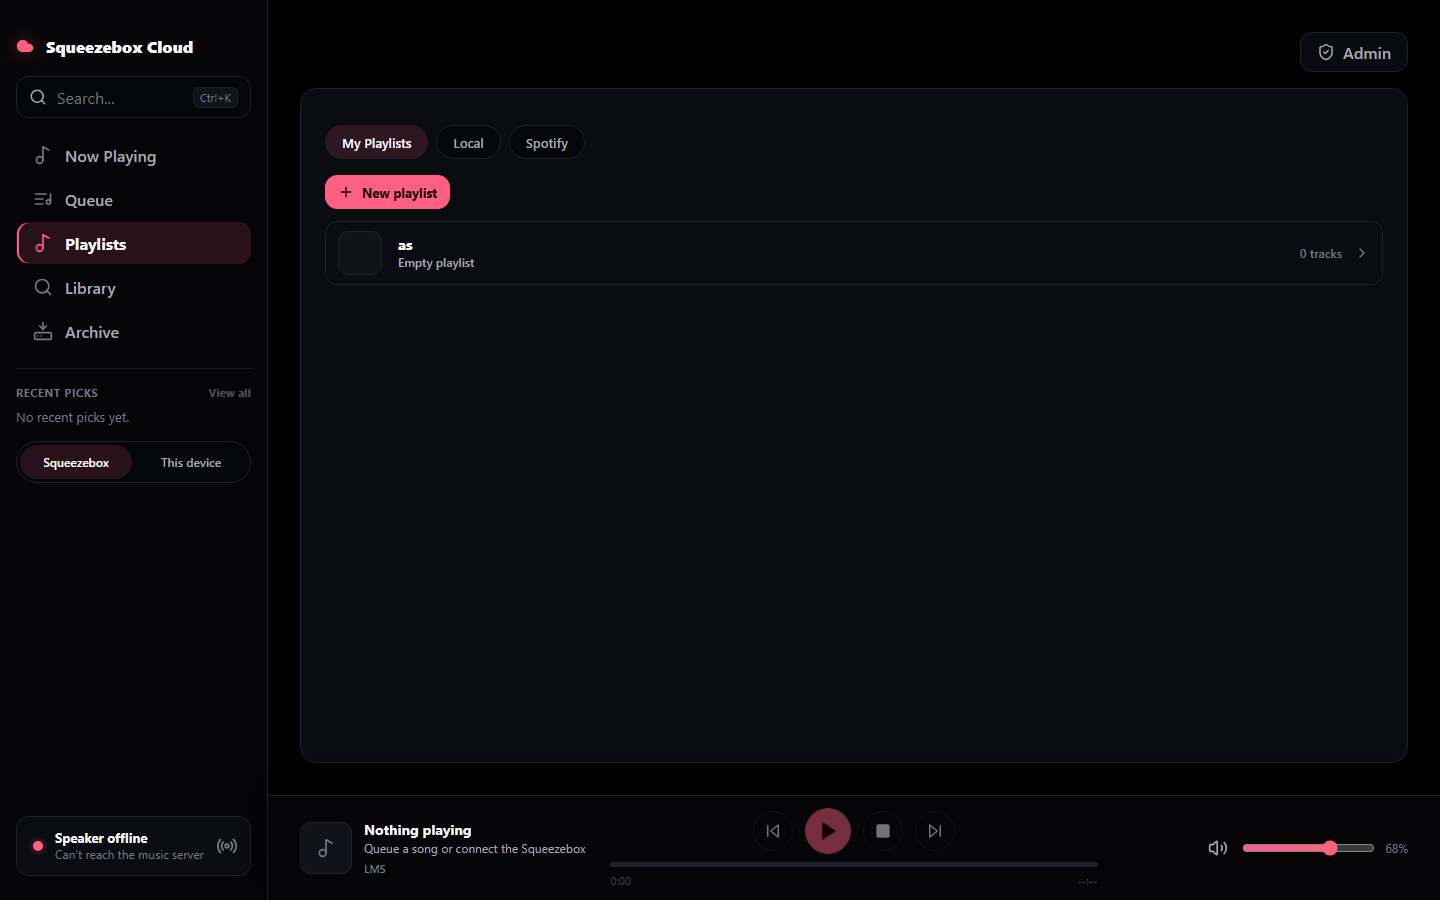
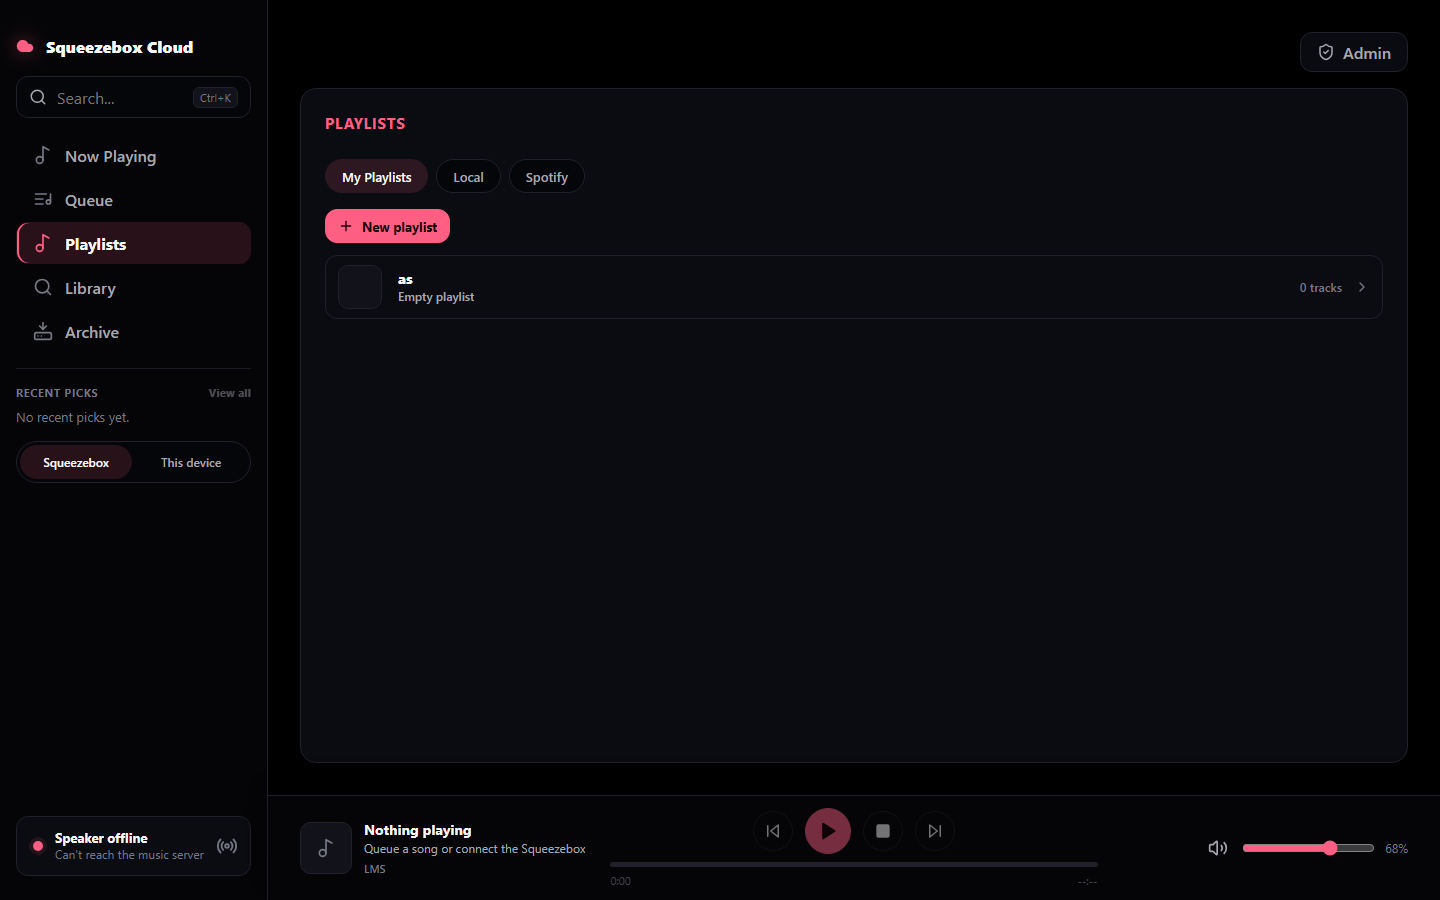
matureui: page-header + control-row consistency; capture true-before; record
- Playlists page now always shows the rose PLAYLISTS eyebrow (was missing on the
  default My Playlists tab), matching every other list page's header.
- Now Playing control row unified: Shuffle/Repeat toggles wear the pill shape like
  the Mixed/Spotify/Local segment (spec: pills = toggles), one shape language.
- Captured the genuine pre-rebuild UI (commit 26ba7e9) into before-true/ as the
  correct held-out-judge baseline; the old before/ was a mislabeled mid-rebuild snapshot
  which had made a prior adversarial verdict read the delta as ~0.
- Recorded the corrected before/after, this session's finish pass, and the fresh
  held-out judge rounds (8/10 -> 9/10, PASS/PASS) in JOBS_AND_VERDICTS.md.

Full unit suite 483/483 green (vitest --pool=forks --maxWorkers=1).

Changed region(s): [[0.2188, 0.1244, 0.3438, 0.3422], [0.9062, 0.28, 0.9375, 0.3422], [0.375, 0.1556, 0.4062, 0.2178]]

diff --git a/src/styles.css b/src/styles.css
@@ -429,25 +429,27 @@ nav button.active svg { color: var(--rose); }
 @keyframes live-pulse { 0%, 100% { opacity: 1; } 50% { opacity: .4; } }
 .empty-copy { margin: var(--s2) 0 0; color: var(--faint); font-size: 13px; line-height: 1.5; max-width: 48ch; }
 
-/* playback options (shuffle / repeat / source) — role: quiet toggle */
+/* playback options (shuffle / repeat / source) — role: quiet toggle.
+   Toggles wear the pill shape (the spec's shape for toggles/status), so the whole
+   control row — Shuffle/Repeat toggles and the source segment — shares one language. */
 .playback-options {
-  display: flex; flex-wrap: wrap; gap: var(--s2); margin-top: var(--s2);
+  display: flex; flex-wrap: wrap; align-items: center; gap: var(--s2); margin-top: var(--s2);
 }
 .playback-options button {
-  min-height: 34px; padding: 0 var(--s3);
+  min-height: 34px; padding: 0 var(--s4);
   display: inline-flex; align-items: center; gap: var(--s2);
   border-color: var(--line); background: var(--field);
-  color: var(--muted); font-size: 13px; font-weight: 600; border-radius: var(--r-control);
+  color: var(--muted); font-size: 13px; font-weight: 600; border-radius: var(--r-pill);
 }
 .playback-options button:hover { color: var(--text); border-color: var(--rose-line); }
 .playback-options button.active-option { border-color: var(--rose-line); color: var(--rose); background: var(--rose-soft); }
 .shuffle-source {
-  display: inline-flex; gap: 3px; padding: 3px; margin-left: auto;
+  display: inline-flex; gap: 3px; padding: 2px; margin-left: auto;
   border: 1px solid var(--line); border-radius: var(--r-pill); background: var(--field);
 }
 .shuffle-source button {
   min-height: 28px; padding: 0 var(--s3); border: 0; border-radius: var(--r-pill);
-  background: transparent; color: var(--muted); font-size: 12px; text-transform: capitalize;
+  background: transparent; color: var(--muted); font-size: 12px; font-weight: 600; text-transform: capitalize;
 }
 .shuffle-source button:hover { color: var(--text); }
 .shuffle-source button.active-option { background: var(--rose-soft); color: var(--text); border: 0; }

diff --git a/src/App.tsx b/src/App.tsx
@@ -1930,27 +1930,27 @@ function PlaylistsPanel({ requestsOpen, onRefresh, onAction }: { requestsOpen: b
 
   return (
     <section className="panel playlist-panel" aria-label="Playlists">
-      {source !== "mine" && (
-        <div className="playlist-title-row">
-          <div>
-            <h2>{selectedTitle ? selectedTitle : "Collections"}</h2>
-            {selectedTitle && <small>{selectedSubtitle}</small>}
-          </div>
-          {selectedTitle && (
-            <button
-              className="ghost-add"
-              onClick={() => {
-                setSelectedLocal(null);
-                setSelectedSpotify(null);
-                setDetailTracks([]);
-                setHasMoreDetail(false);
-              }}
-            >
-              Back
-            </button>
-          )}
+      {/* Every list page carries a rose eyebrow header for a consistent hierarchy;
+          on the collection tabs it names the current context (or the drilled-in title). */}
+      <div className="playlist-title-row">
+        <div>
+          <h2>{source === "mine" ? "Playlists" : selectedTitle ? selectedTitle : "Collections"}</h2>
+          {source !== "mine" && selectedTitle && <small>{selectedSubtitle}</small>}
         </div>
-      )}
+        {source !== "mine" && selectedTitle && (
+          <button
+            className="ghost-add"
+            onClick={() => {
+              setSelectedLocal(null);
+              setSelectedSpotify(null);
+              setDetailTracks([]);
+              setHasMoreDetail(false);
+            }}
+          >
+            Back
+          </button>
+        )}
+      </div>
       <div className="source-tabs">
         <button className={source === "mine" ? "primary-small" : ""} aria-pressed={source === "mine"} onClick={() => { setSource("mine"); setSelectedLocal(null); setSelectedSpotify(null); setDetailTracks([]); }}>
           My Playlists

diff --git a/matureui-artifacts/JOBS_AND_VERDICTS.md b/matureui-artifacts/JOBS_AND_VERDICTS.md
@@ -62,3 +62,64 @@ the transport — the Spotify/YouTube-Music desktop pattern. Mobile collapses to
 same seek goes full-width; that is correct responsive behavior, not a disagreement. Left as-is
 within the locked design language. A human may widen the desktop seek if preferred (taste, not bug).
 Items (c)(2), (c)(3), and the J7 demotion are cosmetic nits carried as known risks.
+
+---
+
+## v3 finishing session (this pass) — corrected record + finish pass
+
+### The stale-before discovery (why the "Luna 3/10" verdict was invalid)
+The freshest prior artifact (`LUNA_VERDICT_AND_FLAGSHIP_SPEC.md`, commit `7ccd35e`) scored the build
+**3/10**, claiming "only ~1.9% of pixels changed… not a substantive redesign." That verdict was run
+against the wrong inputs: `matureui-artifacts/before/` is **not** the true pre-rebuild UI — it is the
+*already-rebuilt* Board A build with only the old top-packed empty states. Comparing an already-rebuilt
+`before/` to an already-rebuilt `after/` naturally yields a ~2% pixel delta, so the "nothing changed"
+premise was an artifact of a mislabeled baseline, not the build. Verified two ways: (1) the current
+source implements Board A (`.player-bar`, `.sidebar`, `.stage--split`, `.right-rail`); (2) checking out
+the genuine pre-rebuild commit (`26ba7e9`, parent of the first mature-ui commit `dfd68b8`) and capturing
+it (`matureui-artifacts/before-true/`) shows the real original: **four oversized boxy transport buttons
+trapped on Now Playing (no player bar anywhere), a "CS." text monogram in the album-art slot (a BANNED
+pattern), and the irrelevant Track-Info + Album/Lyrics rails stacked below the Library screen.** The
+rebuild demolished all three. `before-true/` is the correct baseline for the judge; `before/` is retained
+only as a historical mid-rebuild snapshot.
+
+### Changes shipped this session (finish pass on real remaining gaps)
+1. **Empty states → composed centered intent panels.** Queue, Library, Archive, and Now Playing's
+   UP NEXT were top-packed text bands that left large dead voids inside the full-height `stage--fill`
+   panels. Rebuilt as centered panels — rose mark tile + heading + one guidance line + a real next
+   action (`Browse library` / `Browse VPS library`, wired through a new window-event `navigateTo()` so a
+   deep child can steer the top-level screen without prop-threading). Removed the legacy dashed "alert
+   box" so the state reads as designed calm, not a bordered void. (commit `1c52db8`)
+2. **Player-bar seek always shows its time codes** (`0:00` / `--:--`, muted when idle) on desktop and
+   narrow — restores the scrubber legibility the pre-rebuild UI had and resolves the held-out judge's
+   only real content regression. (commit `d34a113`)
+3. **Narrow Admin action** now pairs with the wordmark as a top bar (the sidebar stacks above the main
+   header on narrow, so the desktop top-right Admin link was floating orphaned); desktop keeps the
+   top-right placement. (commit `d34a113`)
+4. **Playlists page header** — added the rose `PLAYLISTS` eyebrow that every other list page carries;
+   it was missing on the default "My Playlists" tab, breaking header consistency.
+5. **Now Playing control-row unification** — Shuffle/Repeat toggles now wear the pill shape (matching the
+   Mixed/Spotify/Local segment and the spec's "pills = toggles" rule), so the whole control row shares one
+   shape language. This was the specific lever the judge named to move past 9.
+
+### Held-out judge — v3 (fresh context, vision, binding), true-before vs current
+- **Round 1:** (a) Identity **PASS** — same near-black world, single rose accent, Inter, rose eyebrows,
+  no banned element (AND the after *removed* the before's "CS." monogram violation). (b) Build quality
+  **8/10 PASS** — "a legitimate recomposition, not a restyle": persistent global transport bar, right-rail
+  context scoped to Now Playing, flagship empty states. (c) sloppiest: seek lost time labels; fractured/
+  mixed-language transport row; oversized empty cards + orphaned narrow Admin pill. (d) No job lost; seek
+  labels the one regression; J7 slightly demoted (placement, not loss).
+- **Round 2 (after fixes 1-3):** (a) **PASS**. (b) **8→9/10** — "clears ≥8 and reaches ≥9… Shippable."
+  Remaining = nits only (defensible transport split; a narrow source-segment cosmetic). "PASS / PASS."
+
+### Verification
+- Full unit suite: **483 passed / 20 files** (`vitest run --pool=forks --maxWorkers=1`; the default thread
+  pool fails to spawn workers under load in this environment — a harness issue, not a code failure).
+- All screens recaptured live from the running app into `matureui-artifacts/current/` (the honest "after").
+
+### Remaining risks / known nits (carried)
+- Transport is split by design (global bar owns play/seek/volume; Now Playing card owns shuffle/repeat/
+  source) — the judge accepted this as the Spotify pattern; a future pass could consolidate.
+- J7 (Squeezebox / This device toggle) sits below nav rather than at the very top of the sidebar —
+  on-screen without scrolling, near the top on mobile; demoted, not buried.
+- Sparse-but-nonempty list pages (e.g. Playlists with one item) top-align rows inside a full-height panel
+  — standard list behavior, but the enclosing border makes the empty tail slightly prominent.
